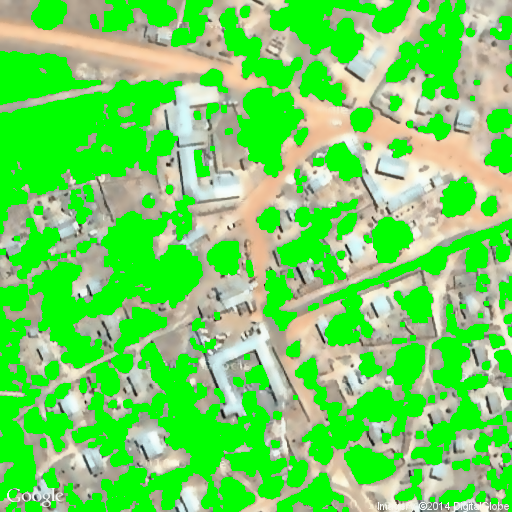
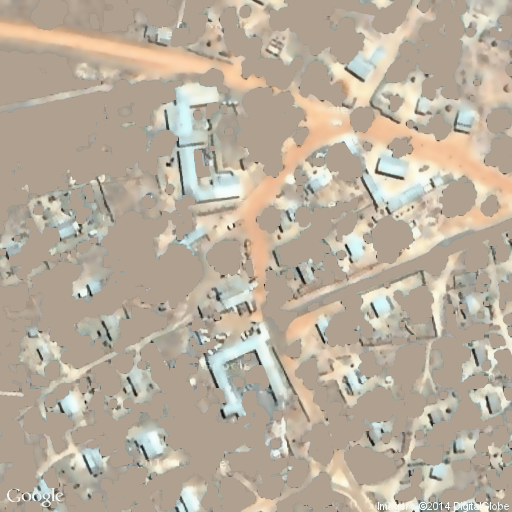
added progress from spring 2014 semester to README

diff --git a/buildingDetect/segmentColor.py b/buildingDetect/segmentColor.py
@@ -1,0 +1,152 @@
+import cv2 as cv
+#import pymeanshift as ms
+import numpy as np
+from matplotlib import pyplot as plt
+from collections import defaultdict
+
+fname = '../images/chibombo1-veg-subtract.png'
+
+def show_image(img, label='image'):
+  cv.imshow(label, img)
+  cv.waitKey(0)
+
+def vegetationMask(im, xdim, ydim):
+  # compute color invariant
+  [B,G,R] = cv.split(im)
+  red = R.astype(float)
+  blue = B.astype(float)
+  green = G.astype(float)
+
+  colInvarIm = np.zeros(shape=(xdim, ydim))
+
+  # iterate over the image
+  for i in xrange(xdim):
+    for j in xrange(ydim):
+      # if there are no blue or green at thix pixel, turn it black
+      if (green[i,j] + blue[i,j]) < np.finfo(float).eps:
+        colInvarIm[i,j] = 2
+      else:
+        if blue[i,j] > 130 and blue[i,j] < 150:
+          im[i,j] = blue[i,j] #(4./np.pi)*np.arctan((blue[i,j] - green[i,j])/(green[i,j] + blue[i,j]))
+        else:
+          im[i,j] = 2
+
+  show_image(im, 'blue threshold')
+  # normalize to [0,255]
+  colInvarIm += abs(colInvarIm.min())
+  colInvarIm *= 255.0/colInvarIm.max()
+  colInvarIm = colInvarIm.astype('uint8')
+
+  # threshold to detect vegetation
+  thresh, vegetation = cv.threshold(colInvarIm, 0, 255, cv.THRESH_OTSU)
+
+  cv.imshow('color invariant image', colInvarIm)
+  cv.waitKey(0)
+  cv.imshow('vegetation', vegetation)
+  cv.waitKey(0)
+  #cv.destroyAllWindows()
+
+  cinvar_fname = fname[:-4] + '-col-invar.png'
+  #cv.imwrite(cinvar_fname, colInvarIm)
+  mask_fname = fname[:-4] + '-veg-mask.png'
+  #cv.imwrite(mask_fname, vegetation)
+
+  return vegetation
+
+def plotHistogram(img):
+  color = ('b','g','r')
+  for i,col in enumerate(color):
+      histr = cv.calcHist([img],[i],None,[256],[0,256])
+      plt.plot(histr,color = col)
+      plt.xlim([0,256])
+  plt.show()
+
+def get_median(img, xdim, ydim):
+  [R,G,B] = cv.split(img)
+  red = R.astype(float)
+  blue = B.astype(float)
+  green = G.astype(float)
+  r, g, b = [], [], []
+  pixels = []
+  counter=0
+  d = defaultdict(int)
+  for i in xrange(xdim):
+    for j in xrange(ydim):
+      d[(R[i,j], G[i,j], B[i,j])] += 1
+  print d.values()
+  maxval = 0
+  returnval = (0,0,0)
+  for k,v in d.items():
+    if v > maxval:
+      returnval = k
+      maxval = v
+  print maxval
+  return returnval
+
+def main():
+  im = cv.imread(fname, cv.CV_LOAD_IMAGE_COLOR)
+
+
+  xdim, ydim, nchannels = im.shape
+  im = cv.bilateralFilter(im, 15, 41, 41)
+
+  plotHistogram(im)
+
+  cv.imshow('image', im)
+  cv.waitKey(0)
+
+  [B,G,R] = cv.split(im)
+  red = R.astype(float)
+  blue = B.astype(float)
+  green = G.astype(float)
+  r = []
+  b = []
+
+  median_pixel = get_median(im, xdim, ydim)
+
+  lst = []
+  for i in xrange(xdim):
+    for j in xrange(ydim):
+      b.append(blue[i,j])
+      r.append(red[i,j])
+      # road: 2 std
+      if red[i,j] > 235: # red[i,j] > 180
+        im[i,j] = median_pixel # (255, 255, 255)
+      # blue: 1 std
+      elif blue[i,j] > 182: #and blue[i,j] <= 238:
+        im[i,j] = (0,0,0)
+  print np.median(r)
+  print np.mean(r)
+  print np.std(r)
+  print np.median(b)
+  print np.mean(b)
+  print np.std(b)
+           #(4./np.pi)*np.arctan((blue[i,j] - green[i,j])/(green[i,j] + blue[i,j]))
+  show_image(im, 'red threshold')
+
+  mask_fname = fname[:-4] + '-veg-mask.png'
+  cv.imwrite(mask_fname, im)
+
+  #seg, labels, num_regions = ms.segment(im, spatial_radius=6, range_radius=4.5, min_density=50)
+  #seg2 = np.copy(seg)
+
+  #veg = vegetationMask(im, xdim, ydim)
+
+  #hists = np.bincount(np.reshape(labels, xdim*ydim))
+  #hmean = np.mean(hists)
+  #hstd = np.std(hists)
+
+  #for i in xrange(num_regions):
+  #  if hists[i] < 15 or hists[i] > 2*hstd + hmean:
+  #    seg2[labels == i, :] = 0
+
+
+  
+  #cv.imshow('segmented1', seg)
+  #cv.waitKey(0)
+
+  #fout = fname[:-4] + '-seg.png'
+  #cv.imwrite(fout, seg)
+
+if __name__ == '__main__':
+  main()

diff --git a/buildingDetect/replaceVegetation.py b/buildingDetect/replaceVegetation.py
@@ -1,0 +1,105 @@
+import cv2 as cv
+import numpy as np
+from scipy import stats
+from collections import defaultdict
+
+fname = '../images/chibombo1.png'
+
+def show_image(img, label='image'):
+	cv.imshow(label, img)
+	cv.waitKey(0)
+
+# smoothing using filter
+def smooth(img):
+	blur = cv.blur(img, (5,5))
+	#show_image(blur, 'Average Blur')
+	gaussian_blur = cv.GaussianBlur(img, (5,5), 0)
+	#show_image(gaussian_blur, 'Gaussian Blur')
+	median_blur = cv.medianBlur(img, 5)
+	#show_image(median_blur, 'Median Blur')
+	bilateral_filter = cv.bilateralFilter(img, 9, 75, 75)
+	show_image(bilateral_filter, 'Bilateral Filter')
+	#cv.destroyAllWindows()
+	return bilateral_filter
+
+def invert_image(img):
+	inverted = (255-img)
+	show_image(inverted, 'inverted')
+	return inverted
+
+def get_median(img, xdim, ydim):
+	[R,G,B] = cv.split(img)
+	red = R.astype(float)
+  	blue = B.astype(float)
+  	green = G.astype(float)
+	r, g, b = [], [], []
+	pixels = []
+	counter=0
+	d = defaultdict(int)
+	for i in xrange(xdim):
+		for j in xrange(ydim):
+			d[(R[i,j], G[i,j], B[i,j])] += 1
+	print d.values()
+	maxval = 0
+	returnval = (0,0,0)
+	for k,v in d.items():
+		if v > maxval:
+			returnval = k
+			maxval = v
+	print maxval
+	return returnval
+
+def main():
+	original = cv.imread(fname)
+	show_image(original, 'original')
+	img = smooth(original)
+	gray = cv.cvtColor(img,cv.COLOR_BGR2GRAY)
+	show_image(gray, 'gray')
+	#cv.imwrite('chibombo1-gray.png', gray)
+	ret, thresh = cv.threshold(gray,0,255,cv.THRESH_BINARY_INV+cv.THRESH_OTSU)
+	show_image(thresh, 'threshold')
+
+	# noise removal
+	kernel = np.ones((3,3),np.uint8)
+	opening1 = cv.morphologyEx(thresh,cv.MORPH_OPEN,kernel, iterations = 1)
+	show_image(opening1, 'opening1')
+	opening2 = cv.morphologyEx(thresh,cv.MORPH_OPEN,kernel, iterations = 2)
+	show_image(opening2, 'opening2')
+
+	# get image dimensions
+	xdim, ydim, nchannels = img.shape
+
+	# get the median pixel value (should be background)
+	median_pixel = get_median(img, xdim, ydim)
+	print median_pixel
+	
+	for i in xrange(xdim):
+		for j in xrange(ydim):
+    		# if it's white in the eroded image, then it's vegetation
+			if opening2[i,j] == 255:
+    			# set to black
+				img[i,j] = (median_pixel[0], median_pixel[1], median_pixel[2])
+				
+	show_image(opening2, 'bw-overlay')
+	show_image(img, 'color-overlay')
+	cv.imwrite(fname[:-4] + '-veg-subtract.png', img)
+	img = invert_image(img)
+	show_image(img, 'inverted')
+	#img = invert_image(img)
+	#cv.imwrite(fname[:-4] + '-veg-subtract2.png', img)
+	# sure background area
+	# sure_bg = cv.dilate(opening2,kernel,iterations=3)
+	# show_image(sure_bg, 'sure_bg')
+
+	# Finding sure foreground area
+	# dist_transform = cv.distanceTransform(opening,cv.DIST_L2,5)
+	# ret, sure_fg = cv.threshold(dist_transform,0.7*dist_transform.max(),255,0)
+
+	# Finding unknown region
+	# sure_fg = np.uint8(sure_fg)
+	# unknown = cv.subtract(sure_bg,sure_fg)
+
+if __name__ == "__main__":
+	main()
+
+

diff --git a/buildingDetect/rectDetect.py b/buildingDetect/rectDetect.py
@@ -2,38 +2,48 @@ import cv2 as cv
 import numpy as np
 
 fname = '../images/chibombo1.png'
-fseg = fname[:-4] + '-veg-subtract2.png'
+fseg = fname[:-4] + '-veg-subtract-veg-mask.png'
+
+def show_image(img, label='image'):
+  cv.imshow(label, img)
+  cv.waitKey(0)
 
 # load color image and segmentation
 orig = cv.imread(fname)
 im = cv.imread(fseg)
 xdim, ydim, nchannels = im.shape
 
+show_image(orig, 'orig')
+show_image(im, 'veg-mask')
+
 # morphological opening and closing
 kernel = np.ones((3,3), np.uint8)
 im = cv.morphologyEx(im, cv.MORPH_OPEN, kernel)
 im = cv.morphologyEx(im, cv.MORPH_CLOSE, kernel)
+
+show_image(im, 'open-close')
 
 imcopy = im.copy()
 gray = cv.cvtColor(im, cv.COLOR_RGB2GRAY)
 #thresh = cv.adaptiveThreshold(gray, 255, cv.ADAPTIVE_THRESH_GAUSSIAN_C, cv.THRESH_BINARY, 11, 2)
 WINDOW_NAME = "win"
 
-cv.imshow('image', orig)
-cv.waitKey(0)
+
 
 num_buildings = 0
 
 for i in xrange(255):
   # threshold the grayscale image at that value
-  #ret, binary = cv.threshold(gray, i, 255, cv.THRESH_BINARY)
   binary = np.zeros((xdim, ydim), np.uint8)
-  binary[gray == i] = 255
+  ret, binary = cv.threshold(gray, dst=binary, thresh=i, maxval=255, type=cv.THRESH_OTSU)
+  #binary[gray == i] = 255
+  #show_image(binary, 'binary')
 
   # find contours, fit to polygon, and determine if rectangular
   contours, hierarchy = cv.findContours(binary, mode=cv.RETR_LIST, method=cv.CHAIN_APPROX_SIMPLE)
 
   for c in contours:
+    #print str(i) + "th round, " + str(len(c)) + " contours"
     poly = cv.approxPolyDP(np.array(c), 0.07*cv.arcLength(c,True), True)
     carea = cv.contourArea(c)
     polyarea = cv.contourArea(poly)
@@ -45,12 +55,13 @@ for i in xrange(255):
     box = cv.cv.BoxPoints(rect)
     box = np.int0(box)
 
-    if polyarea < 2048 and carea < 2048:
+    if polyarea > 30 and carea > 30:
       cv.drawContours(im, [c], 0, (0,0,255), 1)
-    if len(poly) == 4 and carea < 2048 and carea > 5 \
-        and abs(polyarea/carea - 1) < 0.25:
+    if len(poly) < 6 and carea > 30: #and carea > 5: #\
+        #and abs(polyarea/carea - 1) < 0.25:
       num_buildings += 1
       cv.drawContours(imcopy, [poly], 0, (0,0,255), 1)
+      cv.drawContours(orig, [poly], 0, (0,0,255), 1)
 
 # show images
 cv.imshow('all bounding boxes', im)
@@ -60,8 +71,10 @@ cv.imshow('with some filtering', imcopy)
 cv.waitKey(0)
 cv.destroyAllWindows()
 
+show_image(orig)
+
 fout = fname[:-4] + '-detect.png'
-cv.imwrite(fout, imcopy)
+cv.imwrite(fout, orig)
 
 print num_buildings
 

diff --git a/buildingDetect/testSimpleCV.py b/buildingDetect/testSimpleCV.py
@@ -1,0 +1,16 @@
+from SimpleCV import *
+
+img = Image('../images/shapes.png')
+# threshold for findBlobs can be adjusted
+blobs = img.findBlobsFromWatershed()
+
+drawLayer = DrawingLayer((img.width, img.height))
+for b in blobs:
+  b.drawMinRect(layer=drawLayer, color=Color.RED, width=3)
+
+img.addDrawingLayer(drawLayer)
+img.applyLayers()
+
+img.show()
+
+
